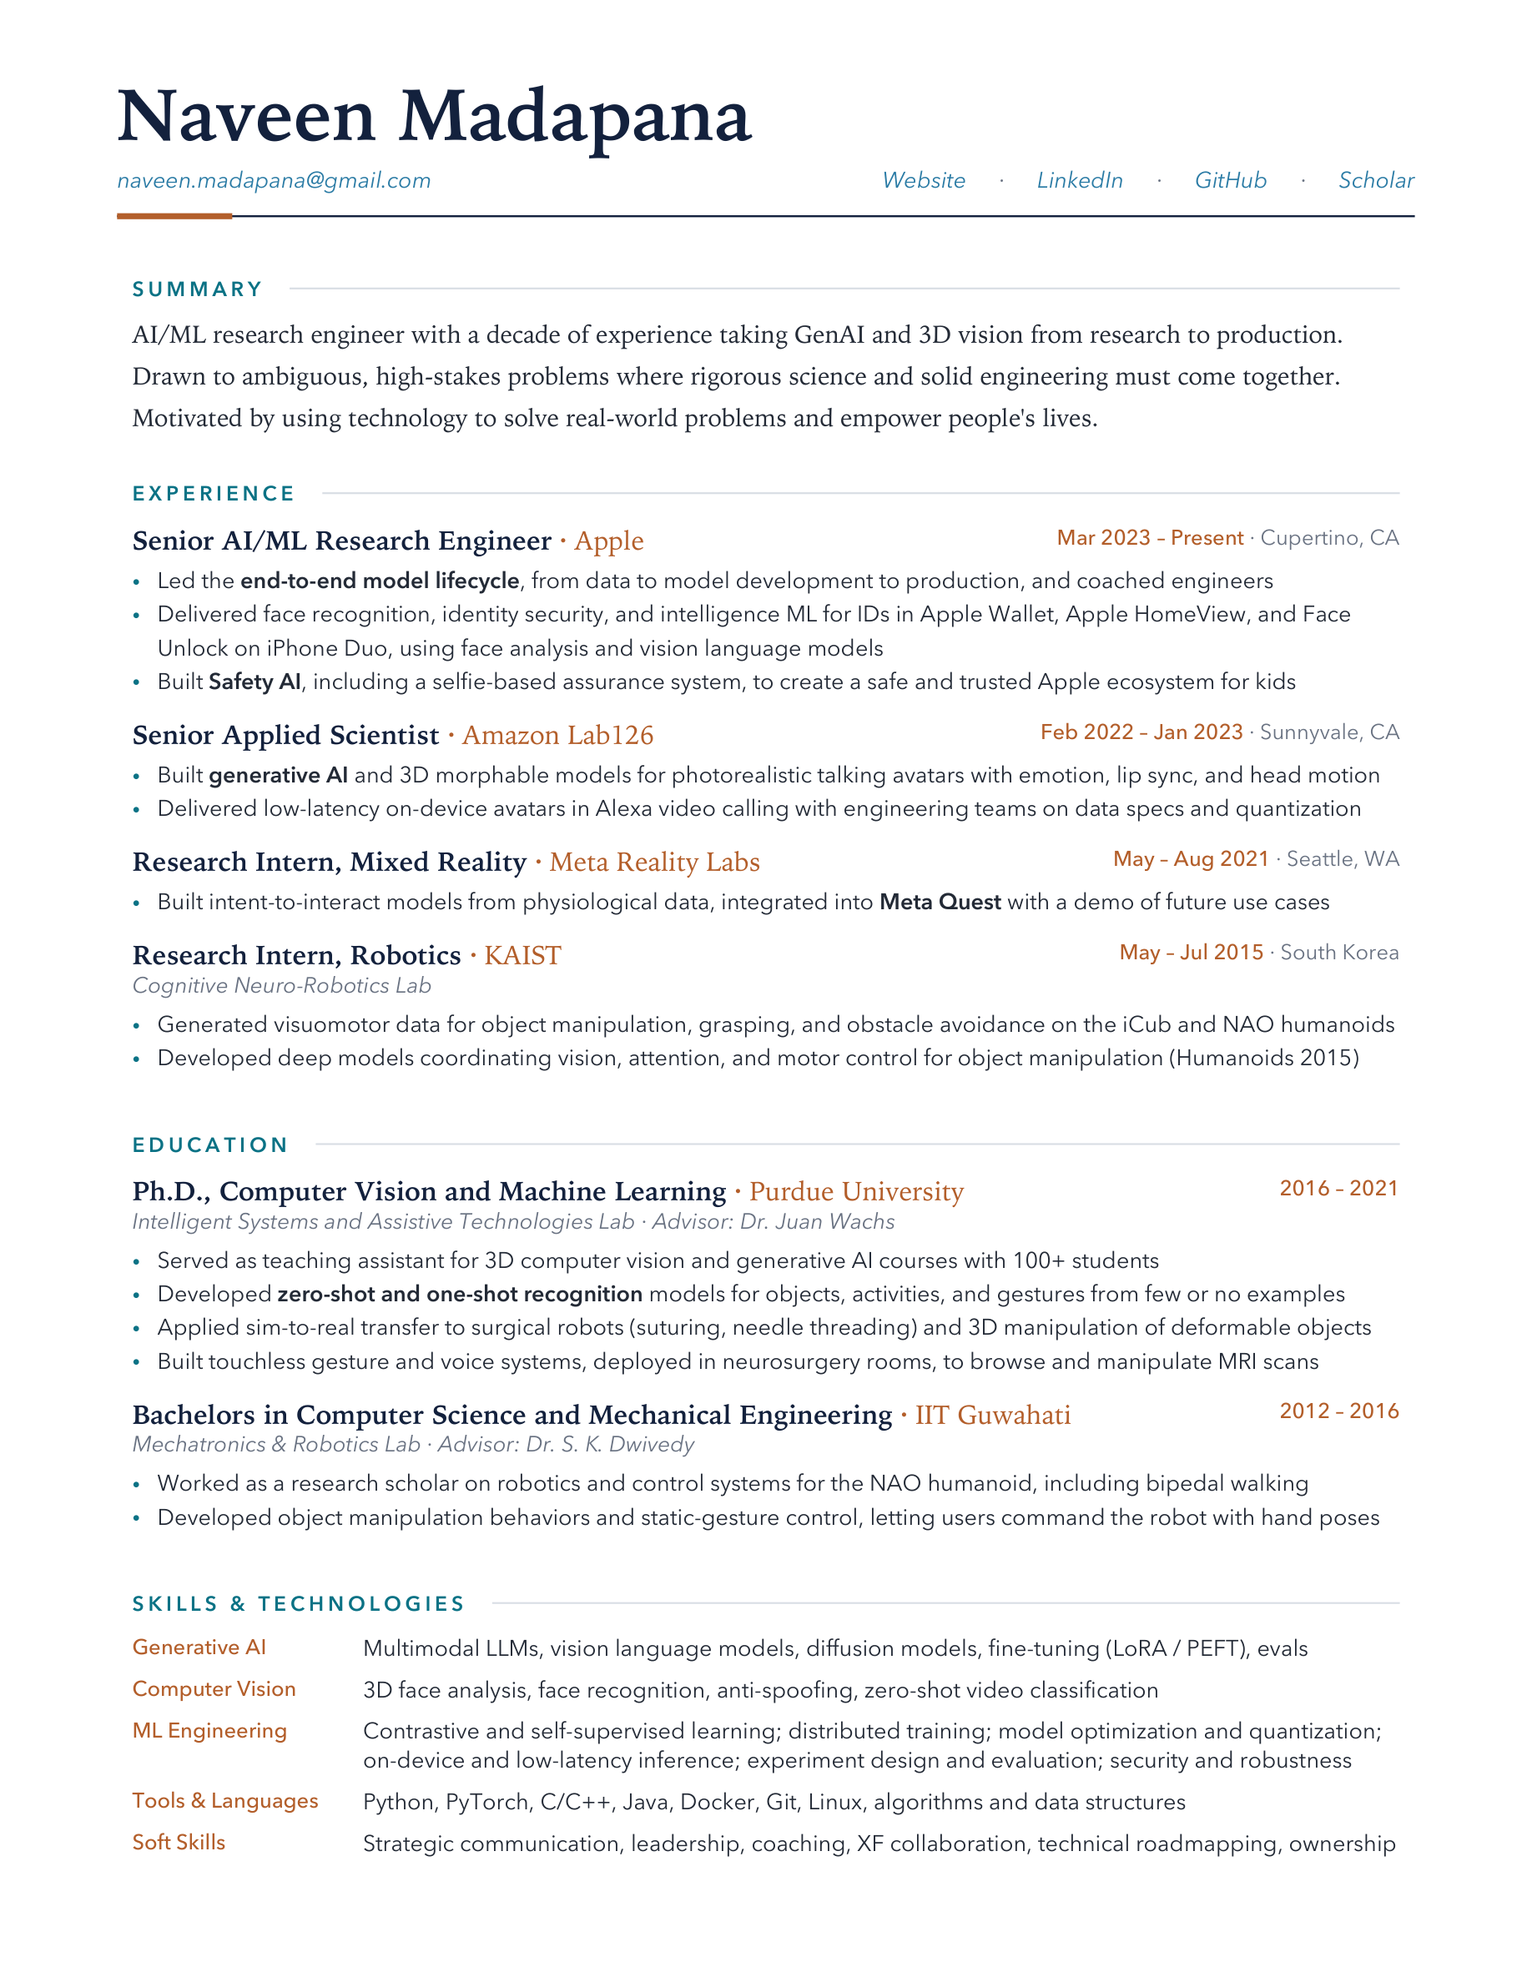
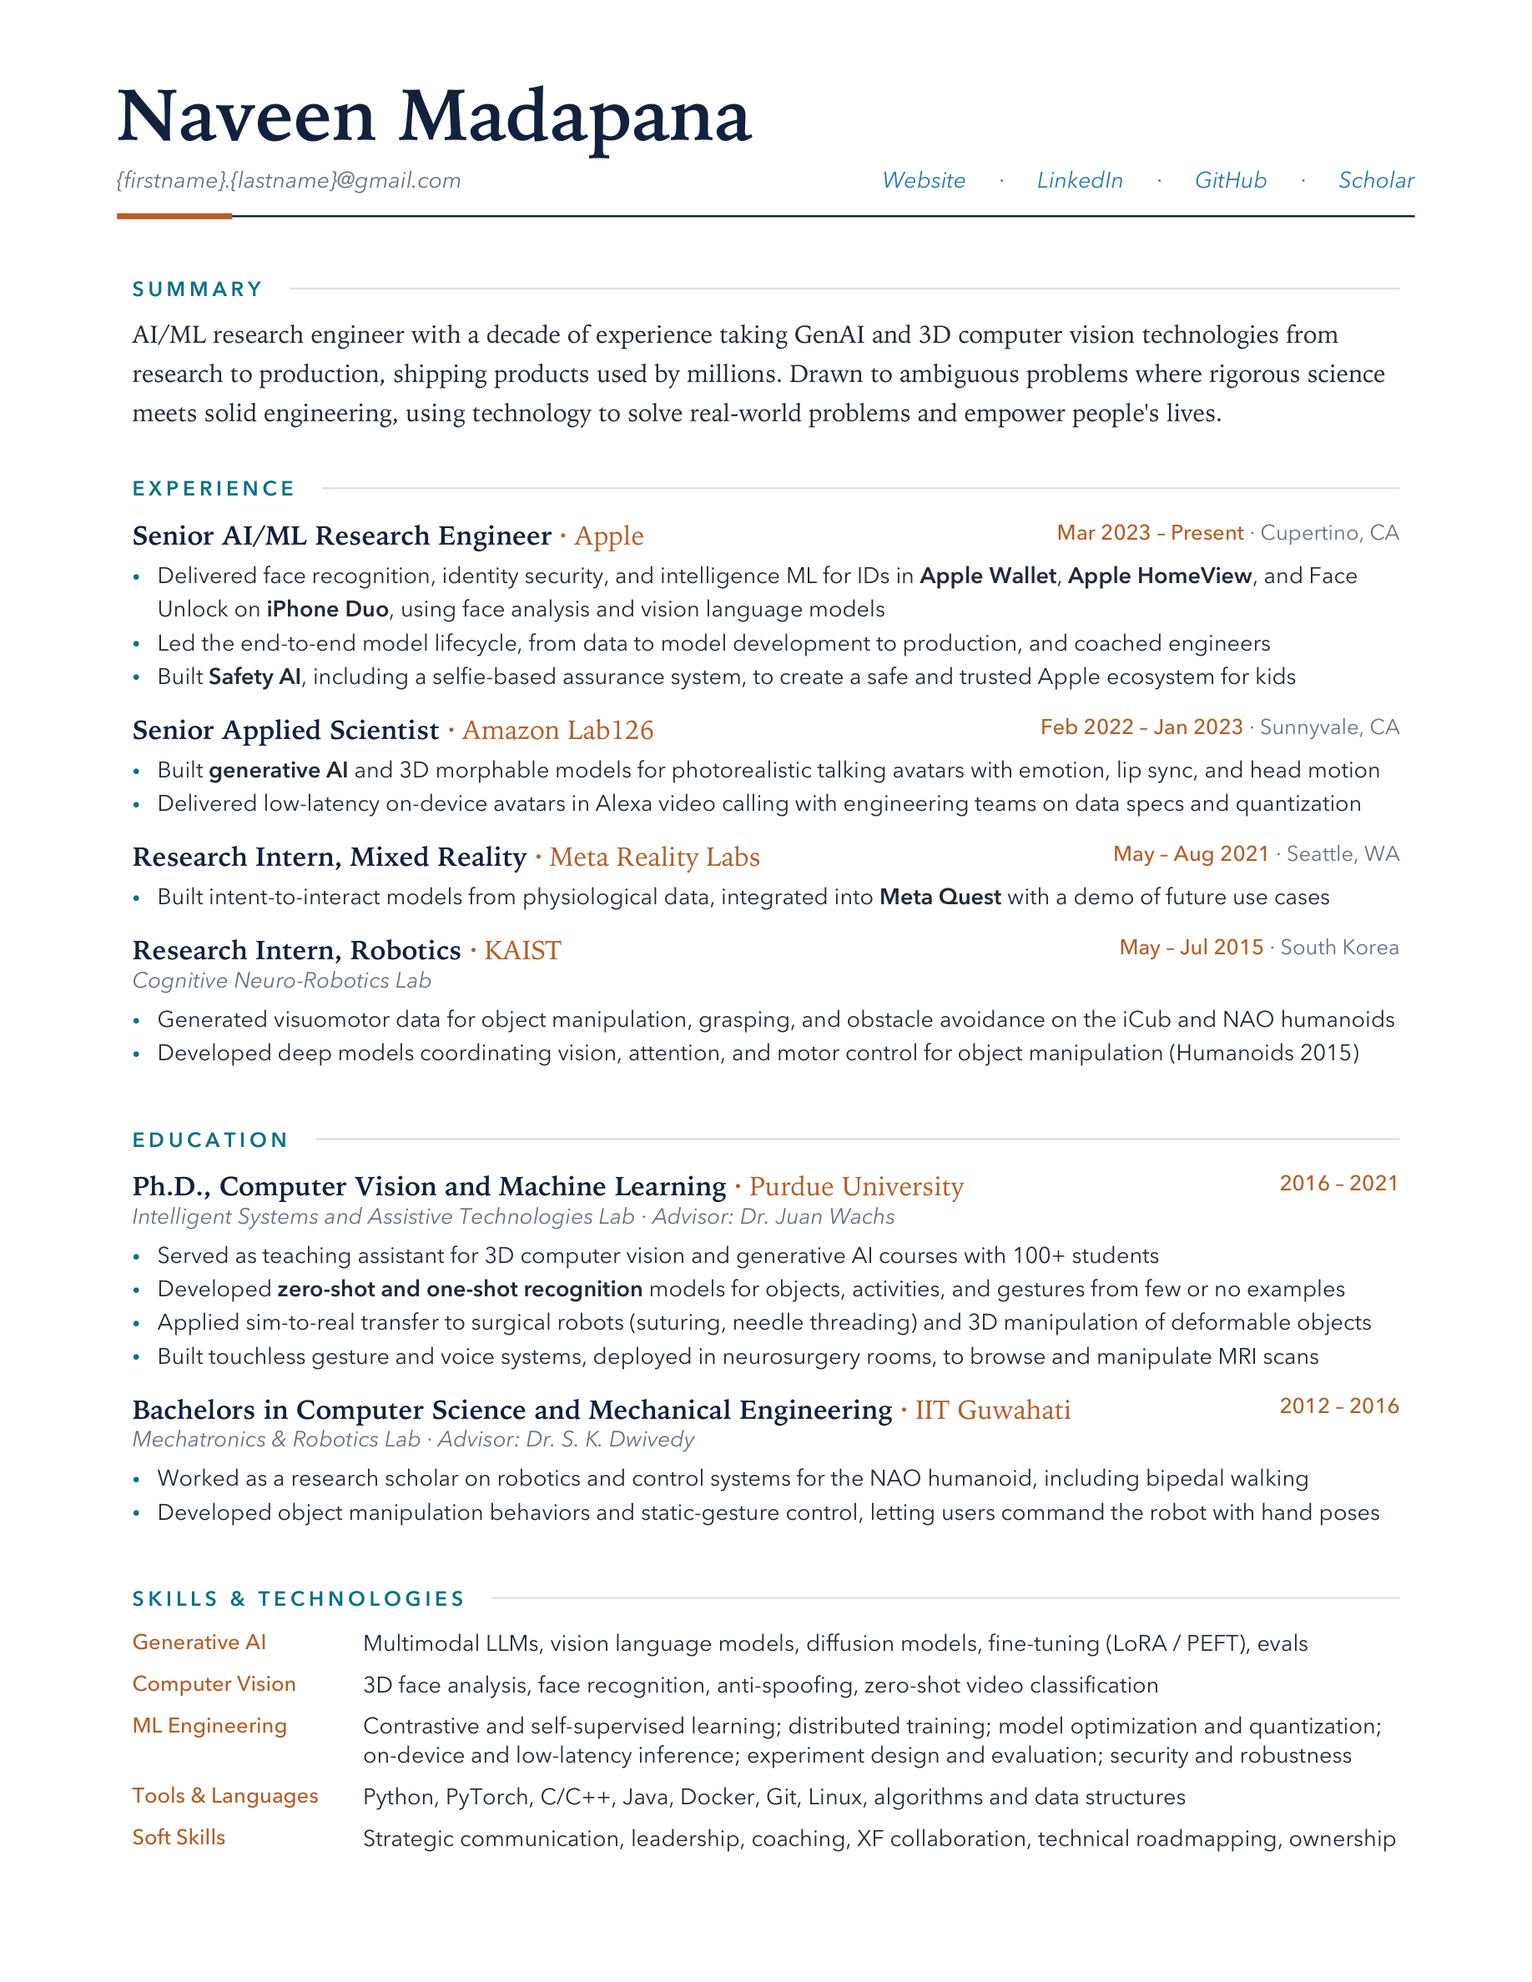
Refine resume content and layout; widen resume viewer
Resume: show the email as a pattern instead of a link and drop the phone number,
merge the summary into a three-line paragraph, reorder the Apple bullets and
change which phrases are bold, and update the skills rows.

Site: widen the Resume page viewer to 1280px and bump the stylesheet version.
Regenerate resume.pdf and the page images; update README and RESUME_RULES.

diff --git a/index.html b/index.html
@@ -8,7 +8,7 @@
   <meta name="description" content="Senior AI/ML research engineer specializing in generative AI, multimodal LLMs, 3D computer vision, and robotics.">
   <meta property="og:title" content="Naveen Madapana">
   <meta property="og:description" content="Senior AI/ML research engineer specializing in generative AI, multimodal LLMs, 3D computer vision, and robotics.">
-  <link rel="stylesheet" href="assets/css/site.css?v=22">
+  <link rel="stylesheet" href="assets/css/site.css?v=23">
 </head>
 <body>
 

diff --git a/assets/css/site.css b/assets/css/site.css
@@ -156,7 +156,7 @@ footer { border-top-color: var(--border); }
 .tabs-panel .btn.active:hover { color: var(--text); }
 
 /* Resume page: the resume's pages shown directly, full width, so it reads without downloading */
-#resume .wrap { max-width: 1000px; }
+#resume .wrap { max-width: 1280px; }
 .resume-head { display: flex; align-items: center; justify-content: space-between; gap: 16px; margin-bottom: 20px; }
 .resume-head h2 { margin: 0; }
 .resume-actions { display: flex; gap: 10px; }

diff --git a/research.html b/research.html
@@ -8,7 +8,7 @@
   <meta name="description" content="Selected research and publications by Naveen Madapana.">
   <meta property="og:title" content="Research">
   <meta property="og:description" content="Selected research and publications by Naveen Madapana.">
-  <link rel="stylesheet" href="assets/css/site.css?v=22">
+  <link rel="stylesheet" href="assets/css/site.css?v=23">
 </head>
 <body>
 

diff --git a/blog.html b/blog.html
@@ -8,7 +8,7 @@
   <meta name="description" content="Writing by Naveen Madapana.">
   <meta property="og:title" content="Blog">
   <meta property="og:description" content="Writing by Naveen Madapana.">
-  <link rel="stylesheet" href="assets/css/site.css?v=22">
+  <link rel="stylesheet" href="assets/css/site.css?v=23">
 </head>
 <body>
 

diff --git a/resume.html b/resume.html
@@ -8,7 +8,7 @@
   <meta name="description" content="Resume of Naveen Madapana.">
   <meta property="og:title" content="Resume">
   <meta property="og:description" content="Resume of Naveen Madapana.">
-  <link rel="stylesheet" href="assets/css/site.css?v=22">
+  <link rel="stylesheet" href="assets/css/site.css?v=23">
 </head>
 <body>
 

diff --git a/resume/build_resume.py b/resume/build_resume.py
@@ -20,18 +20,18 @@ OUT = Path(__file__).resolve().parent.parent / "resume.pdf"
 
 NAME = "Naveen Madapana"
 LINKS = [
-    ("naveen.madapana@gmail.com", "mailto:naveen.madapana@gmail.com"),
+    ("{firstname}.{lastname}@gmail.com", None),  # shown as a pattern, not a link, so the real address is not in the PDF
     ("Website", "https://nmadapan.github.io"),
     ("LinkedIn", "https://www.linkedin.com/in/nmadapan/"),
     ("GitHub", "https://github.com/nmadapan"),
     ("Scholar", "https://scholar.google.com/citations?user=X6gXGR4AAAAJ&hl=en"),
 ]
 
-SUMMARY = [
-    "AI/ML research engineer with a decade of experience taking GenAI and 3D vision from research to production.",
-    "Drawn to ambiguous, high-stakes problems where rigorous science and solid engineering must come together.",
-    "Motivated by using technology to solve real-world problems and empower people's lives.",
-]
+SUMMARY = (
+    "AI/ML research engineer with a decade of experience taking GenAI and 3D computer vision technologies from research "
+    "to production, shipping products used by millions. Drawn to ambiguous problems where rigorous science "
+    "meets solid engineering, using technology to solve real-world problems and empower people's lives."
+)
 
 # (category, skills) -- first draft; resume only, not on the website
 SKILLS = [
@@ -51,9 +51,9 @@ HOBBIES = [
 # (organization, role, dates, location, [bullets])
 EXPERIENCE = [
     ("Apple", "Senior AI/ML Research Engineer", "Mar 2023 – Present", "Cupertino, CA", [
-        "Led the **end-to-end model lifecycle**, from data to model development to production, and coached engineers",
-        "Delivered face recognition, identity security, and intelligence ML for IDs in Apple Wallet, Apple HomeView, and "
-        "Face Unlock on iPhone Duo, using face analysis and vision language models",
+        "Delivered face recognition, identity security, and intelligence ML for IDs in **Apple Wallet**, **Apple HomeView**, and "
+        "Face Unlock on **iPhone Duo**, using face analysis and vision language models",
+        "Led the end-to-end model lifecycle, from data to model development to production, and coached engineers",
         "Built **Safety AI**, including a selfie-based assurance system, to create a safe and trusted Apple ecosystem for kids",
     ]),
     ("Amazon Lab126", "Senior Applied Scientist", "Feb 2022 – Jan 2023", "Sunnyvale, CA", [
@@ -184,9 +184,10 @@ def header(canvas, doc):
                 canvas.setFillColor(MUTED)
                 canvas.drawString(x + gap, y, "·")
                 x += dot_w + 2 * gap
-            canvas.setFillColor(LINK)
+            canvas.setFillColor(LINK if url else MUTED)
             canvas.drawString(x, y, text)
-            canvas.linkURL(url, (x, y - 2, x + w, y + 9), relative=0)
+            if url:
+                canvas.linkURL(url, (x, y - 2, x + w, y + 9), relative=0)
             x += w
 
     y = top - 1.04 * inch
@@ -287,7 +288,7 @@ def build():
     )
     width = doc.width - 12  # SimpleDocTemplate frames carry 6pt padding per side
 
-    story = section("Summary") + [Paragraph(esc(line), S["summary"]) for line in SUMMARY]
+    story = section("Summary") + [Paragraph(esc(SUMMARY), S["summary"])]
     story += section("Experience")
     for org, role, d, where, b in EXPERIENCE:
         company, _, lab = org.partition(", ")

diff --git a/resume/RESUME_RULES.md b/resume/RESUME_RULES.md
@@ -23,12 +23,12 @@ sips -s format png resume.pdf --out /tmp/resume.png               # macOS: rende
   - Teal `#0b7285`: structure (section headings, links, bullets, list numbers).
   - Copper `#b45f2a`: where and when (company/school names, dates, publication years, the short accent on the header rule).
   - Body text is dark neutral; locations and venues are gray.
-- **Header:** the name, then one contact row beneath it: the actual email `naveen.madapana@gmail.com` (`mailto:`) at the left, then Website, LinkedIn, GitHub, Scholar at the right. **No phone number** (the user removed it). Italic, in a slightly bluer teal (`#2a7ba6`) so they read as hyperlinks, **no underline**. The email sits at the left, the four profile links at the right, separated by gray dots. No title or employer block in the header.
+- **Header:** the name, then one contact row beneath it: the email shown only as the pattern `{firstname}.{lastname}@gmail.com` at the left (plain gray text, deliberately **not** a `mailto:` link, so the real address is not in the PDF), then Website, LinkedIn, GitHub, Scholar at the right. **No phone number** (the user removed it). Italic, in a slightly bluer teal (`#2a7ba6`) so they read as hyperlinks, **no underline**. The email sits at the left, the four profile links at the right, separated by gray dots. No title or employer block in the header.
 - Section headings are small letter-spaced teal capitals with a light hairline to the right margin.
 
 ## Content rules
 
-- **Summary:** three plain lines, no bullets. Each line fits on one line. It must not repeat anything from Experience, Education, or Publications (no product names, no employer names).
+- **Summary:** one flowing paragraph of about three sentences (no bullets). It must not repeat anything from Experience, Education, or Publications (no product names, no employer names).
 - **Skills & Technologies** (resume only, not on the website): placed after Education and before Publications. In the current two-page layout, page 1 ends with Education and page 2 holds Skills, Publications, and Hobbies. Five rows (Generative AI, Computer Vision, ML Engineering, Tools & Languages, Soft Skills), category labels in copper in a left column, skills in plain text on the right, each row one line. First draft; the user is reviewing and will revise.
 - **Hobbies:** last section, after Publications. Two rows in the same label/text format as Skills (Court sports: badminton, tennis, basketball; Running: 5K, 10K, half marathons). Also on the website as two cards before Contact.
 - **Experience / Education entries:**
@@ -36,7 +36,7 @@ sips -s format png resume.pdf --out /tmp/resume.png               # macOS: rende
   - A second line appears only when there is a lab or advisor (muted italic). Experience entries with no lab have no second line.
   - Bullets are teal; write them so each fills most of a line.
   - **Tense:** every bullet starts with a past-tense action verb ("Led", "Delivered", "Built", "Developed", "Worked as ...") for all roles, including the current one. Do not mix present and past.
-  - **Highlight very few things** (the user wants this on both the site and the resume): only end-to-end model lifecycle, Safety AI, generative AI (Amazon), Meta Quest, and zero-shot and one-shot recognition. Marked `**like this**` in `build_resume.py`. The website highlights those same five in the Experience timeline, plus generative AI, multimodal large language models, and 3D computer vision in the intro and Safety AI in its second paragraph. Do not add more.
+  - **Highlight very few things** (the user wants this on both the site and the resume): only Apple Wallet, Apple HomeView, iPhone Duo, Safety AI, generative AI (Amazon), Meta Quest, and zero-shot and one-shot recognition. The Apple "Led the end-to-end model lifecycle" bullet is no longer bold and sits second, after the "Delivered" bullet. Marked `**like this**` in `build_resume.py`. The website highlights those same five in the Experience timeline, plus generative AI, multimodal large language models, and 3D computer vision in the intro and Safety AI in its second paragraph. Do not add more.
 - **Education wording:** "Ph.D., Computer Vision and Machine Learning" (Purdue; no mention of Industrial Engineering). "Bachelors in Computer Science and Mechanical Engineering" (IIT Guwahati; no "minor"). No award text in the Ph.D. entry.
 - **Publications:** numbered, **one line each, no authors**. Title in serif, then the abbreviated venue in gray italic and the year in copper, right-aligned (WACV, IEEE THMS, IEEE FG, arXiv). Newest first. Currently eight papers (WACV 2021, IEEE THMS 2020, IEEE FG 2020, IEEE FG 2019, DESK arXiv 2019, ICPR 2018, ZSGL ICMI 2017, IEEE-RAS Humanoids 2015). Intentionally excluded: HFES 2020, HFES 2018, FG 2020 feature selection, and both PACS papers (IJMI 2019 and PLoS ONE 2018).
 - **No best student paper / HFES mention anywhere** (the user says that conference is not relevant). The website's HFES papers are still in its publication list but no longer carry an award badge.
@@ -56,4 +56,4 @@ The resume leaves out the website's Impact cards, Selected research cards, and h
 ## Open items
 
 - More bullets are planned for Amazon, Meta, KAIST, Purdue, and IIT Guwahati (and possibly Apple). Gather details from the user first, then add to both the website and the resume.
-- The user's email is public in the PDF by their choice; the phone number is intentionally left off.
+- The real email address is intentionally not in the PDF (pattern only), and the phone number is left off, so contact goes through LinkedIn.

diff --git a/README.md b/README.md
@@ -28,7 +28,7 @@ resume/
 ### Pages and navigation
 - **Top bar (page tabs):** Home, Research, Blog, Resume (opens `resume.html`), Contact (goes to LinkedIn). The same `<nav>` block, `<head>`, and footer are copied into each HTML file, so a change to the nav has to be made in all four pages.
 - **Section tab panel** (under the top bar, Home and Research only): a sticky strip with the page name and small bordered tabs that jump to sections. `assets/js/site.js` marks the section you are in. Home: Impact, Education & Experience, Hobbies, Contact. Research: Selected research, Publications.
-- The Resume page shows each page of the resume as an image, 1000px wide at most, so it reads without downloading. Page images are not selectable text; the PDF is.
+- The Resume page shows each page of the resume as an image, 1280px wide at most, so it reads without downloading. Page images are not selectable text; the PDF is.
 
 ### Design
 - Dark theme with a soft purple/cyan background glow, frosted-glass cards, and a blue-to-cyan accent. Design tokens are the CSS variables at the top of `assets/css/site.css`. Later rules in the "Design overrides" section win over the base rules above them. Keep the `@media` blocks at the bottom of the file.
@@ -64,7 +64,7 @@ Notes:
 - Check the render before committing: `sips -s format png resume.pdf --out /tmp/resume.png` shows page 1 on macOS.
 
 ### Design in one paragraph
-Navy name and titles (what you did), teal for structure and section headings, copper for organizations, dates, and years (where and when). The header is the name plus one line: email at the left, Website · LinkedIn · GitHub · Scholar at the right, in italics in a slightly bluer teal with no underline. Each role is `Role · Company` with dates and location at the far right. See `resume/RESUME_RULES.md` for the complete list of rules.
+Navy name and titles (what you did), teal for structure and section headings, copper for organizations, dates, and years (where and when). The header is the name plus one line: the email pattern `{firstname}.{lastname}@gmail.com` (plain text, not a link) at the left, Website · LinkedIn · GitHub · Scholar at the right, in italics in a slightly bluer teal with no underline. Each role is `Role · Company` with dates and location at the far right. See `resume/RESUME_RULES.md` for the complete list of rules.
 
 ## Keeping the resume in sync
 
@@ -72,7 +72,7 @@ When you change the website, apply the matching change to the resume. The two ar
 
 | Change on the website | What to do in `resume/build_resume.py` |
 |---|---|
-| Intro paragraphs on Home | `SUMMARY`: three plain one-line sentences. Do not repeat anything from the entries below (no product or employer names). |
+| Intro paragraphs on Home | `SUMMARY`: one flowing paragraph. Do not repeat anything from the entries below (no product or employer names). |
 | An Experience or Education bullet (Home timeline) | The matching bullet in `EXPERIENCE` or `EDUCATION`. Shorten it so it fits one line, start with a past-tense verb. |
 | A new job or degree | A new tuple: `(org, role, dates, location, [bullets])`. Education passes the lab and advisor line in the org field. |
 | Publications on Research | `PUBLICATIONS`: title, abbreviated venue, year. No authors. Keep it to a short selection; the HFES, FG 2020 feature selection, PACS, and best-student-paper items are intentionally left out. |
@@ -80,7 +80,7 @@ When you change the website, apply the matching change to the resume. The two ar
 | Impact cards, Selected research cards, highlighted keywords | Not on the resume. |
 | Skills & Technologies | Resume only. Edit `SKILLS` directly; there is no website equivalent. |
 
-Highlights: the resume bolds only five phrases, marked `**like this**` in the data (end-to-end model lifecycle, Safety AI, generative AI, Meta Quest, zero-shot and one-shot recognition). Do not add more without being asked.
+Highlights: the resume bolds only a few phrases, marked `**like this**` in the data (Apple Wallet, Apple HomeView, iPhone Duo, Safety AI, generative AI, Meta Quest, zero-shot and one-shot recognition). Do not add more without being asked.
 
 ### Checklist after any website text change
 1. Update the matching text in `build_resume.py` using the table above.
